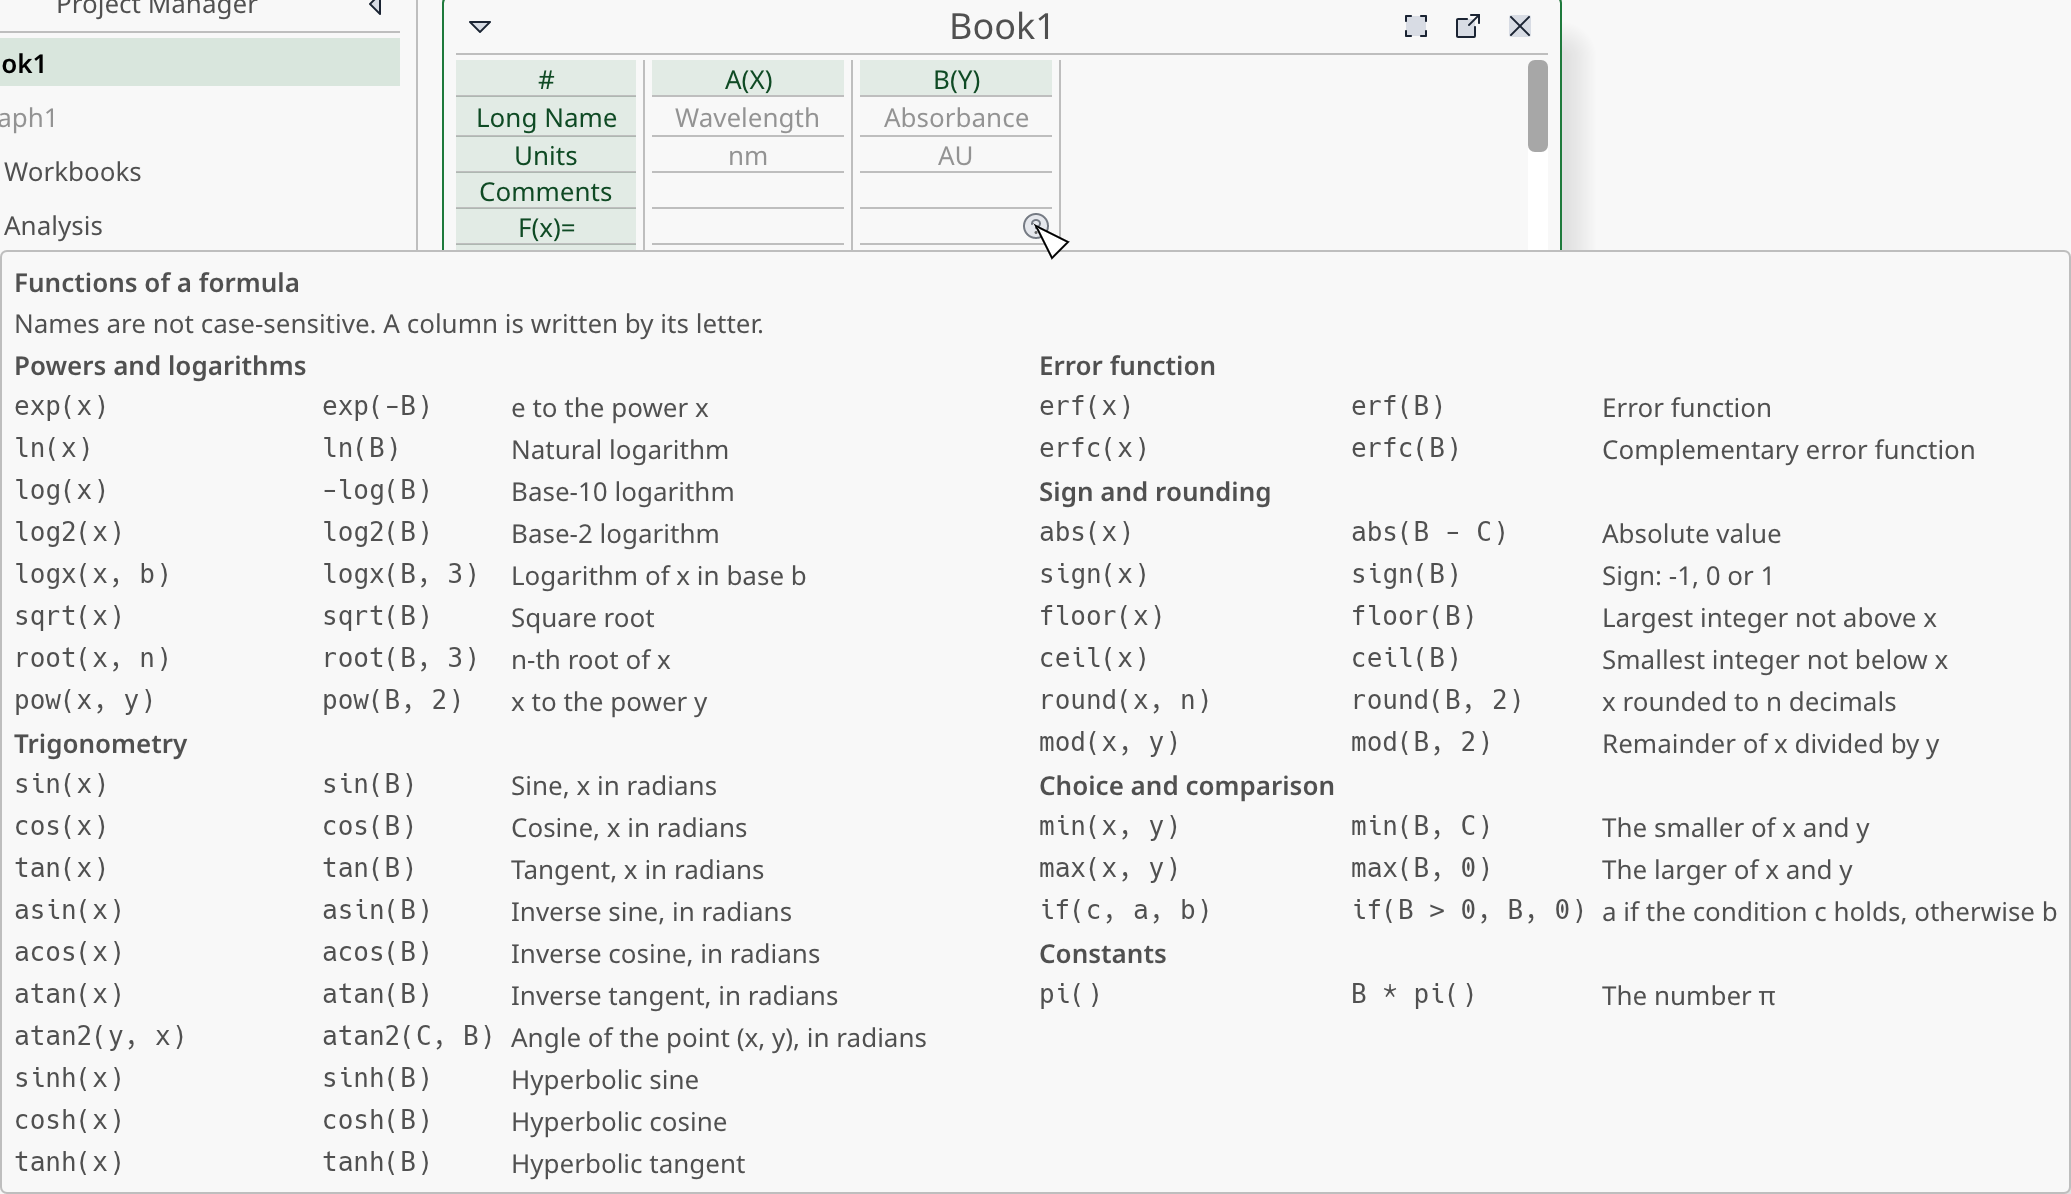
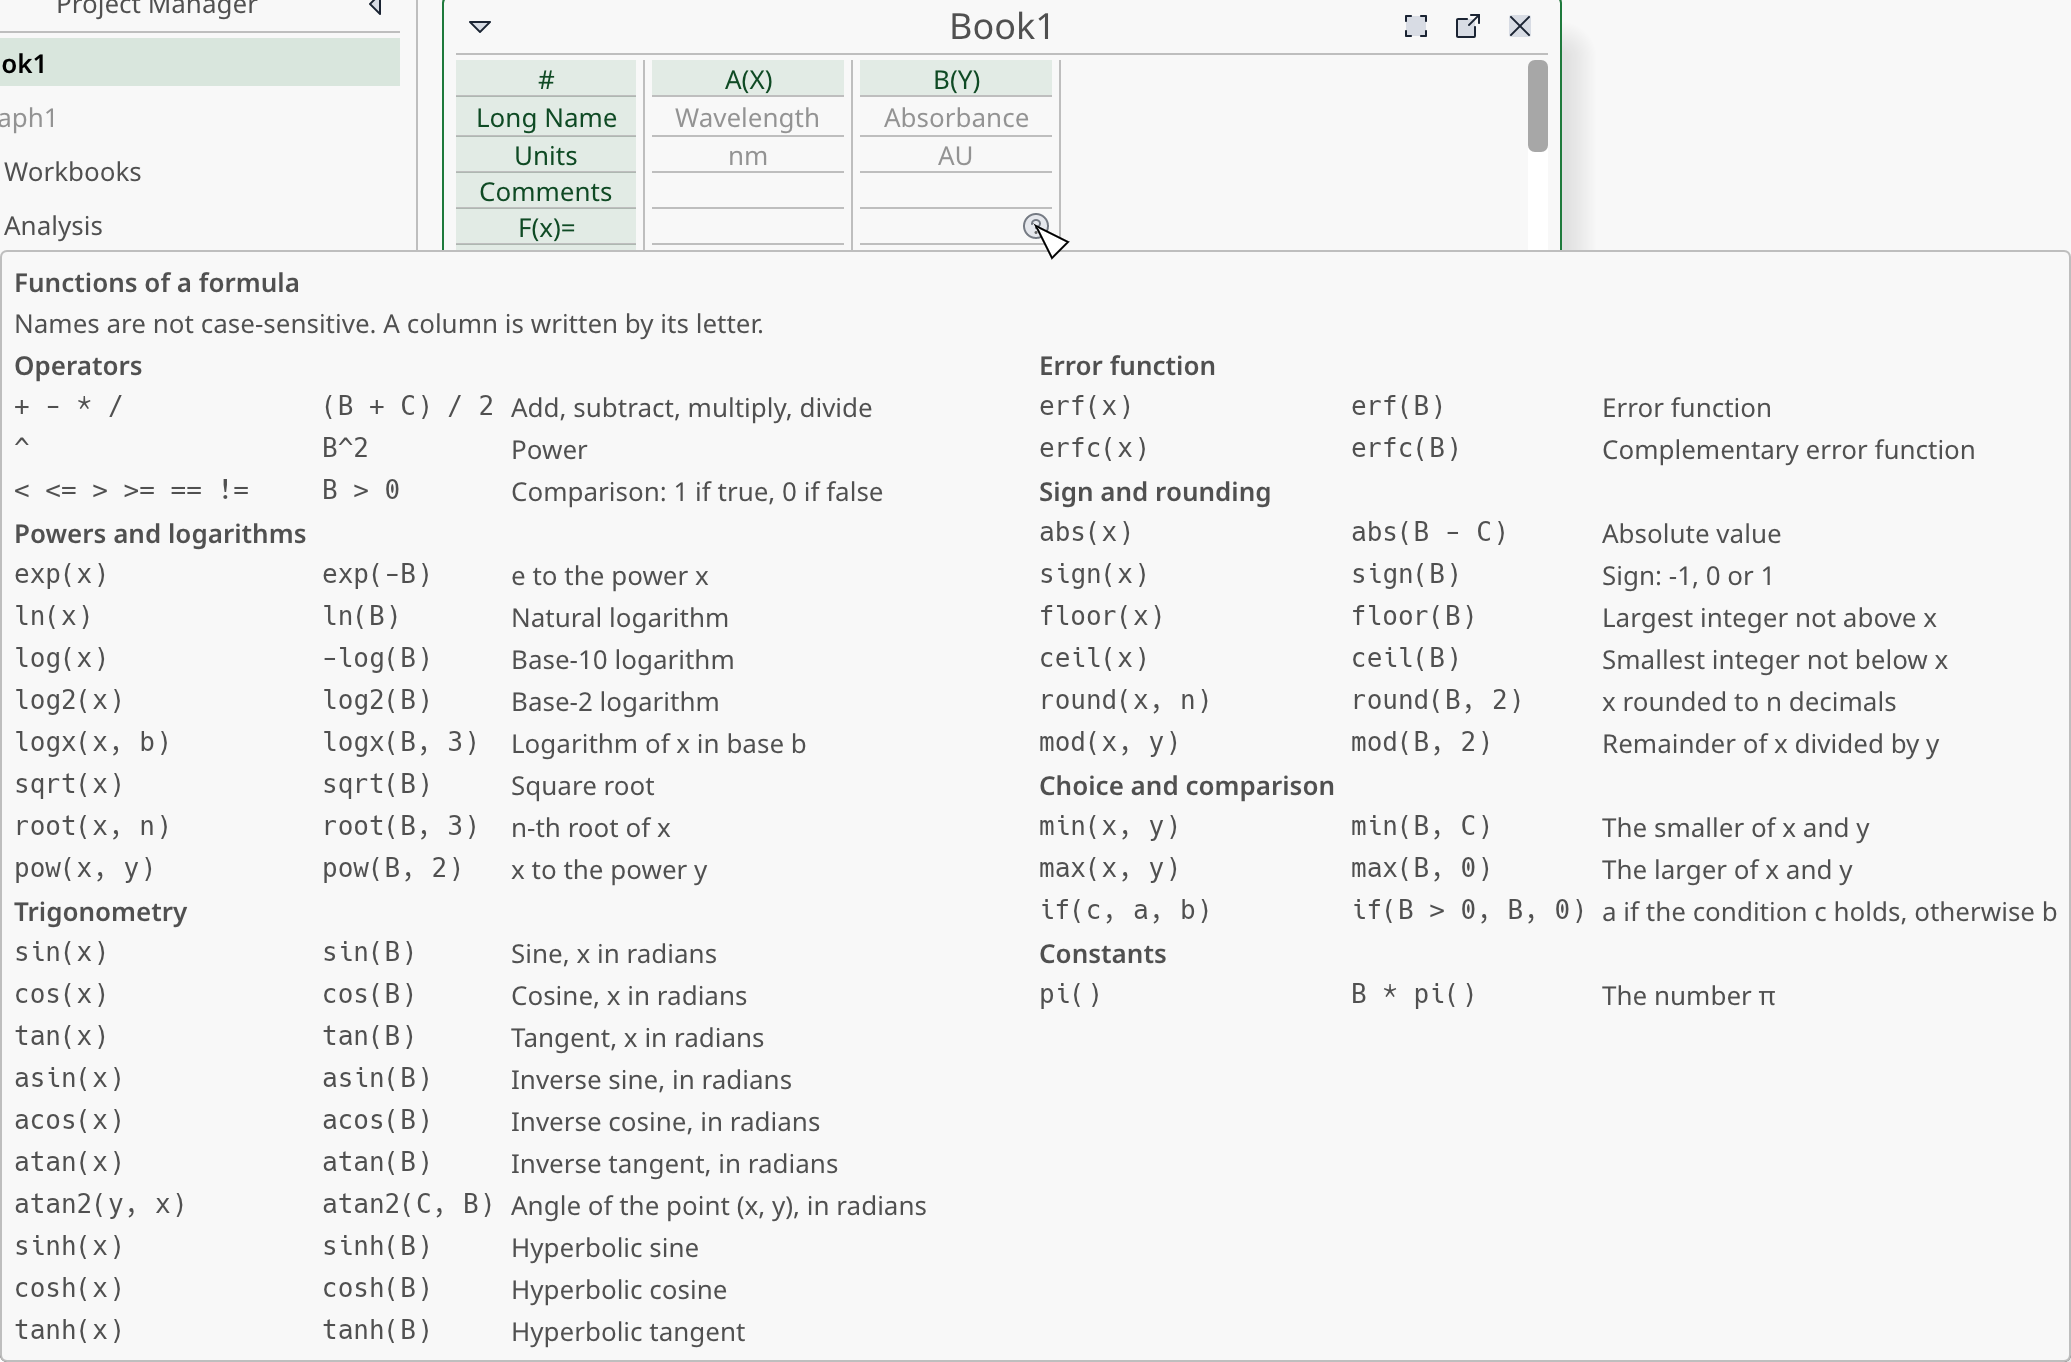
F(x)= help: add an Operators family at the top of the bubble
Lists + - * /, ^ and the comparisons with an example each, as a fixed list
next to the exhaustive match on callees (operators are not callees). The
existing example-compiles test covers them. Screenshot regenerated.

Refs #404

Claude-Session: https://claude.ai/code/session_01PxxG2ShyeKXrR6nqd4iMzf

diff --git a/crates/stokesforge-app-state/src/formula_help.rs b/crates/stokesforge-app-state/src/formula_help.rs
@@ -22,6 +22,7 @@ use crate::tr;
 /// A family of the help, in display order.
 #[derive(Debug, Clone, Copy, PartialEq, Eq)]
 enum Family {
+    Operators,
     Powers,
     Trigonometry,
     Error,
@@ -32,7 +33,8 @@ enum Family {
 
 impl Family {
     /// The display order.
-    const ALL: [Family; 6] = [
+    const ALL: [Family; 7] = [
+        Family::Operators,
         Family::Powers,
         Family::Trigonometry,
         Family::Error,
@@ -43,6 +45,7 @@ impl Family {
 
     fn title(self) -> String {
         match self {
+            Family::Operators => tr!("formula-help-family-operators"),
             Family::Powers => tr!("formula-help-family-powers"),
             Family::Trigonometry => tr!("formula-help-family-trigonometry"),
             Family::Error => tr!("formula-help-family-error"),
@@ -56,7 +59,8 @@ impl Family {
 /// One function of the help.
 #[derive(Debug, Clone, PartialEq)]
 pub struct HelpRow {
-    pub callee: Callee,
+    /// The callee the row documents; `None` for an operator.
+    pub callee: Option<Callee>,
     /// The name with its arguments, as written in a formula: `logx(x, b)`.
     pub signature: &'static str,
     /// A formula that uses it, on columns `A`..`D`: `logx(B, 2)`.
@@ -148,6 +152,26 @@ fn entry(callee: Callee) -> Entry {
     }
 }
 
+/// What a formula can use besides functions: a fixed list, since operators are
+/// not callees (the exhaustive `match` above covers the callees only).
+fn operator_rows() -> Vec<HelpRow> {
+    let operator = |signature, example, description| HelpRow {
+        callee: None,
+        signature,
+        example,
+        description,
+    };
+    vec![
+        operator("+ - * /", "(B + C) / 2", tr!("formula-help-op-arithmetic")),
+        operator("^", "B^2", tr!("formula-help-op-power")),
+        operator(
+            "< <= > >= == !=",
+            "B > 0",
+            tr!("formula-help-op-comparison"),
+        ),
+    ]
+}
+
 /// The help, family by family, in the interface language. A family with no
 /// callee is left out.
 pub fn groups() -> Vec<HelpGroup> {
@@ -157,16 +181,21 @@ pub fn groups() -> Vec<HelpGroup> {
     Family::ALL
         .into_iter()
         .filter_map(|family| {
-            let rows: Vec<HelpRow> = entries
-                .iter()
-                .filter(|(_, entry)| entry.family == family)
-                .map(|(callee, entry)| HelpRow {
-                    callee: *callee,
-                    signature: entry.signature,
-                    example: entry.example,
-                    description: entry.description.clone(),
-                })
-                .collect();
+            let mut rows: Vec<HelpRow> = Vec::new();
+            if family == Family::Operators {
+                rows.extend(operator_rows());
+            }
+            rows.extend(
+                entries
+                    .iter()
+                    .filter(|(_, entry)| entry.family == family)
+                    .map(|(callee, entry)| HelpRow {
+                        callee: Some(*callee),
+                        signature: entry.signature,
+                        example: entry.example,
+                        description: entry.description.clone(),
+                    }),
+            );
             (!rows.is_empty()).then(|| HelpGroup {
                 title: family.title(),
                 rows,
@@ -190,7 +219,10 @@ mod tests {
     fn every_callee_has_exactly_one_non_empty_row() {
         let rows = all_rows();
         for callee in Callee::all() {
-            let mine: Vec<&HelpRow> = rows.iter().filter(|row| row.callee == callee).collect();
+            let mine: Vec<&HelpRow> = rows
+                .iter()
+                .filter(|row| row.callee == Some(callee))
+                .collect();
             assert_eq!(mine.len(), 1, "{}", callee.name());
             let row = mine[0];
             assert!(!row.signature.is_empty(), "{}", callee.name());
@@ -203,7 +235,11 @@ mod tests {
                 row.signature
             );
         }
-        assert_eq!(rows.len(), Callee::all().count());
+        assert_eq!(
+            rows.iter().filter(|row| row.callee.is_some()).count(),
+            Callee::all().count()
+        );
+        assert!(rows.iter().any(|row| row.callee.is_none()), "operators");
     }
 
     /// An example is a formula that the parser accepts, on a sheet `A`..`D`.
@@ -224,7 +260,8 @@ mod tests {
     #[test]
     fn every_example_calls_its_own_function() {
         for row in all_rows() {
-            let name = row.callee.name();
+            let Some(callee) = row.callee else { continue };
+            let name = callee.name();
             assert!(
                 row.example
                     .to_ascii_lowercase()

diff --git a/crates/stokesforge-app/src/app/column_formula_help.rs b/crates/stokesforge-app/src/app/column_formula_help.rs
@@ -125,7 +125,7 @@ mod tests {
 
     fn group(rows: usize) -> HelpGroup {
         let row = || HelpRow {
-            callee: stokesforge_core::Callee::If,
+            callee: Some(stokesforge_core::Callee::If),
             signature: "f()",
             example: "f()",
             description: String::new(),

diff --git a/docs/ui-texts.md b/docs/ui-texts.md
@@ -222,7 +222,7 @@ Before proposing a synonym or a new term, reread § 4 Decisions: a term already 
 | Bring to Front / Send to Back | Amener devant / Envoyer derrière | Stacking order of the objects | Premier plan, Arrière-plan (réservé au fond) | O (#76) |
 | Formula | Formule | Computation of a column (`F(x)=`), as in Excel and Origin | Équation, Expression | #322 |
 | Math | Maths | Text typeset by Typst, between `$…$` ("math mode") | Formula, Équation, LaTeX | #322 |
-| Function family | Famille de fonctions | Heading of a group of functions in the help of the `F(x)=` cell: Powers and logarithms, Trigonometry, Error function, Sign and rounding, Choice and comparison, Constants (#404) | Catégorie, Type | #404 |
+| Function family | Famille de fonctions | Heading of a group in the help of the `F(x)=` cell: Operators, Powers and logarithms, Trigonometry, Error function, Sign and rounding, Choice and comparison, Constants (#404) | Catégorie, Type | #404 |
 | Model expression | Expression de modèle | What the user writes for a custom fit | Formula, Équation | #322 |
 | Zoom / Reset Zoom | Zoom / Réinitialiser le zoom | Framing of the view; return to the original ranges | Rescale, Recadrer | G |
 | Pan† | Panoramique | Move the framing | Déplacement | G |

diff --git a/manual/src/guide/projects-and-workbooks.md b/manual/src/guide/projects-and-workbooks.md
@@ -275,7 +275,7 @@ A column can compute its values from other columns of the same sheet. Type the f
 
 For example, to fill column C with the sum of A and B, double-click the **F(x)=** cell of column C, type `A+B` and press <kbd>Enter</kbd>.
 
-While you type, a small **?** icon sits at the right of the cell. Hover it to see the functions you can use, grouped by family, each with an example.
+While you type, a small **?** icon sits at the right of the cell. Hover it to see the operators and functions you can use, grouped by family, each with an example.
 
 <img src="../images/workbooks-formula-help.png" alt="The F(x)= cell of column B being edited: the bubble of its ? icon lists the functions by family, each with its signature, an example and a description." width="800">
 
